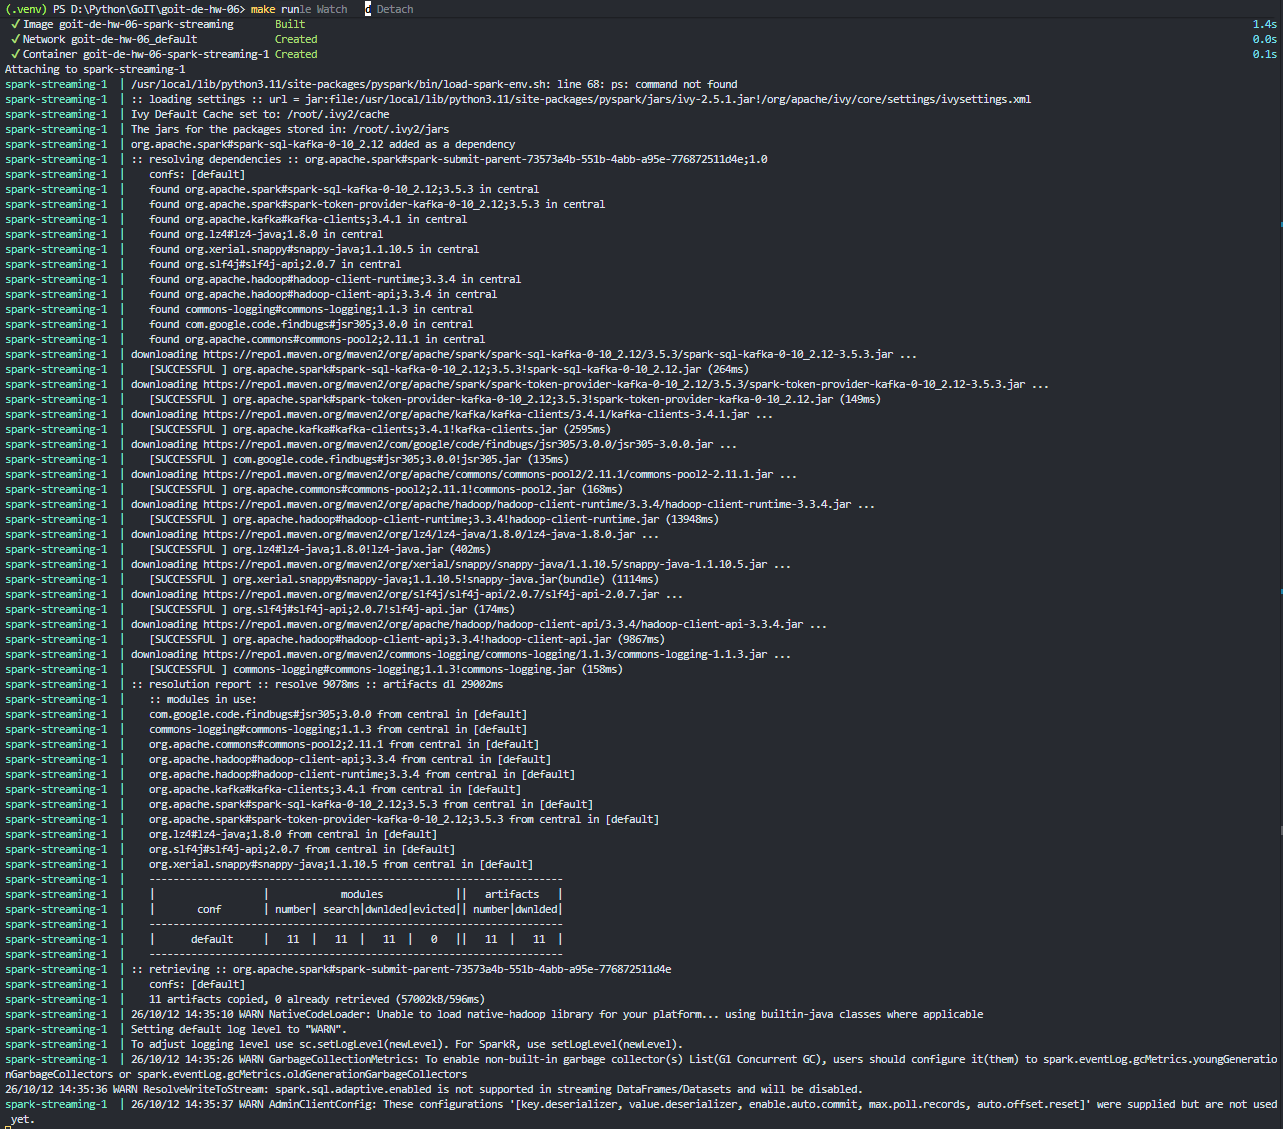
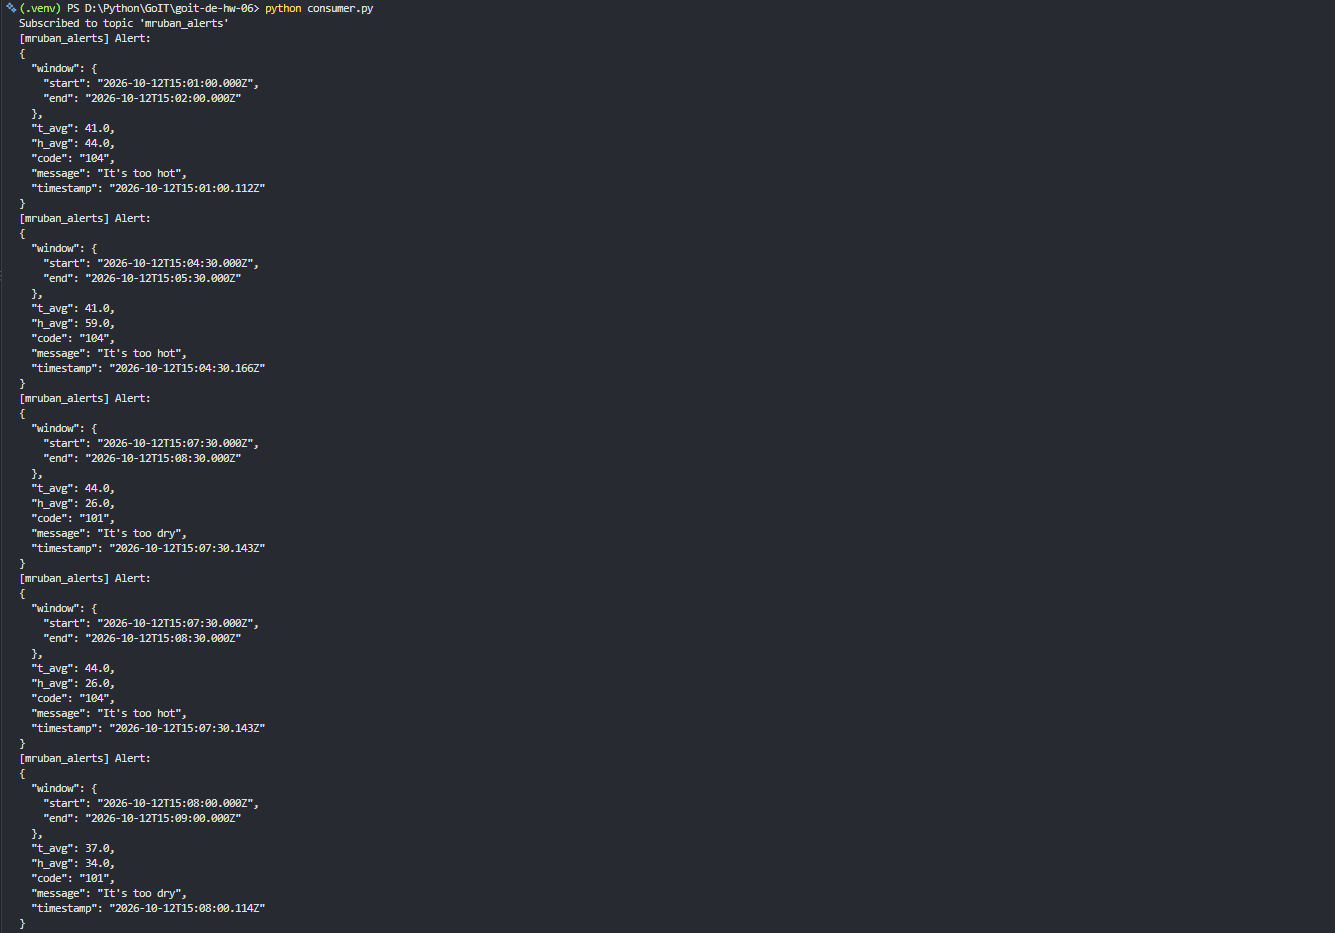
Update README.md with project structure and usage instructions; change consumer group ID to v3

diff --git a/consumer.py b/consumer.py
@@ -15,7 +15,7 @@ consumer = KafkaConsumer(
     value_deserializer=JSONDeserializer(),
     auto_offset_reset="latest",  # Зчитування лише нових повідомлень
     enable_auto_commit=True,  # Автоматичне підтвердження зчитаних повідомлень
-    group_id="alerts_display_group_v2",  # Ідентифікатор групи споживачів
+    group_id="alerts_display_group_v3",  # Ідентифікатор групи споживачів
 )
 
 # Підписка на топік зі сповіщеннями від Spark Structured Streaming

diff --git a/README.md b/README.md
@@ -1,1 +1,67 @@
-# goit-de-hw-06
+# goit-de-hw-06 — Spark Structured Streaming + Kafka
+
+Домашнє завдання до теми «Spark streaming» (опис — [docs/task.md](docs/task.md)).
+
+Потік даних сенсорів (`producer.py`) пишеться в Kafka, `spark_streaming.py` зчитує
+його Spark Structured Streaming, рахує середню температуру та вологість у sliding
+window (1 хв, крок 30 сек, watermark 10 сек), порівнює результат з умовами з
+[data/alerts_conditions.csv](data/alerts_conditions.csv) (cross join + фільтрація) і
+пише алерти назад у Kafka-топік `mruban_alerts`.
+
+## Структура проєкту
+
+- `producer.py` — генерує дані одного сенсора (`sensor_id`, `timestamp`,
+  `temperature`, `humidity`) у топік `mruban_building_sensors`.
+- `create_topic.py` — створює всі потрібні Kafka-топіки.
+- `spark_streaming.py` + `spark_config.py` — Spark Structured Streaming застосунок:
+  читання з Kafka → sliding window aggregation → cross join з умовами алертів →
+  фільтрація → запис у `mruban_alerts`.
+- `consumer.py` — читає та виводить алерти з `mruban_alerts` у pretty-JSON форматі.
+- `configs.py`, `serializers.py` — спільні налаштування Kafka та (де)серіалізатори.
+- `alert_processor.py` — застарілий варіант фільтрації алертів на `kafka-python`
+  без Spark (з попереднього ДЗ), залишений лише для порівняння.
+- `Dockerfile`, `docker-compose.yml`, `Makefile` — запуск `spark_streaming.py` у
+  Linux-контейнері (на Windows Spark Structured Streaming потребує `winutils`,
+  тому контейнер — найпростіший спосіб уникнути цієї проблеми).
+
+## Запуск
+
+1. Скопіювати `.env.example` → `.env` і заповнити Kafka-креденшали.
+2. Створити топіки:
+   ```
+   python create_topic.py
+   ```
+3. Запустити генератор даних сенсора (можна кілька інстансів паралельно):
+   ```
+   python producer.py
+   ```
+4. Запустити Spark Structured Streaming джоб у контейнері:
+   ```
+   make run
+   ```
+   (`make clean` — зупинити й прибрати контейнер/образ/checkpoints)
+5. Переглянути алерти:
+   ```
+   python consumer.py
+   ```
+
+## Скриншоти виконання
+
+**1. Створення Kafka-топіків** (`create_topic.py`)
+
+![create_topic.py](img/01.png)
+
+**2. Генерація даних сенсорів** (`producer.py`, два інстанси)
+
+![producer.py](img/02.png)
+
+**3. Запуск Spark Structured Streaming джоба** (`make run`) — видно, як Spark
+підтягує Kafka-connector і стартує стрим
+
+![make run](img/04.png)
+
+**4. Алерти, записані у Kafka-топік `mruban_alerts`** (`consumer.py`) — середні
+значення (`t_avg`/`h_avg`), код і повідомлення алерту, результат cross join +
+фільтрації за `data/alerts_conditions.csv`
+
+![consumer.py](img/03.png)
